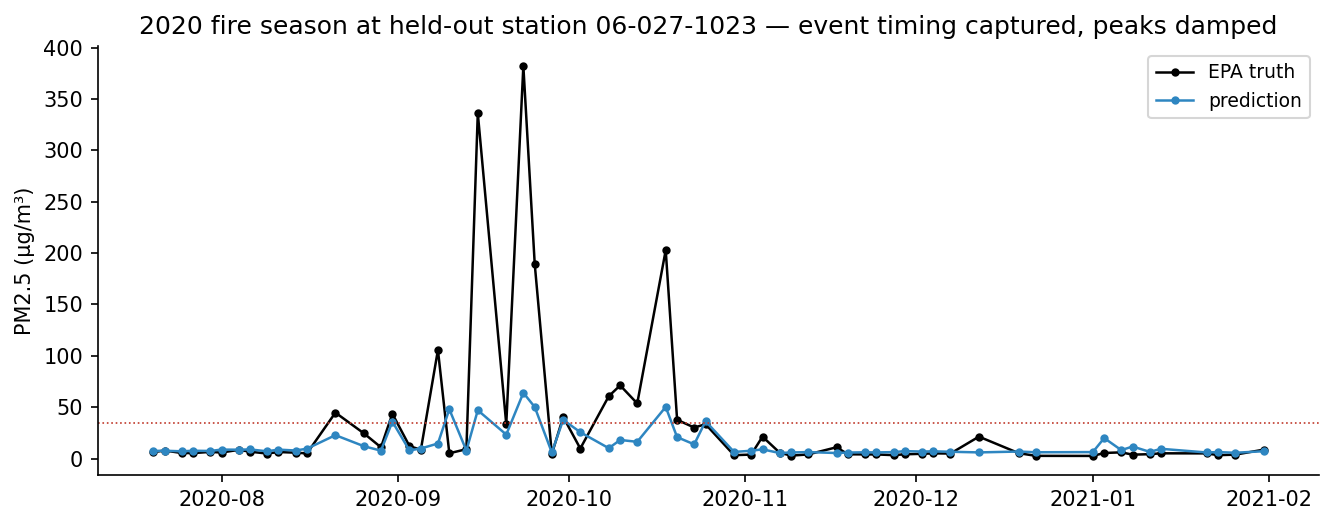
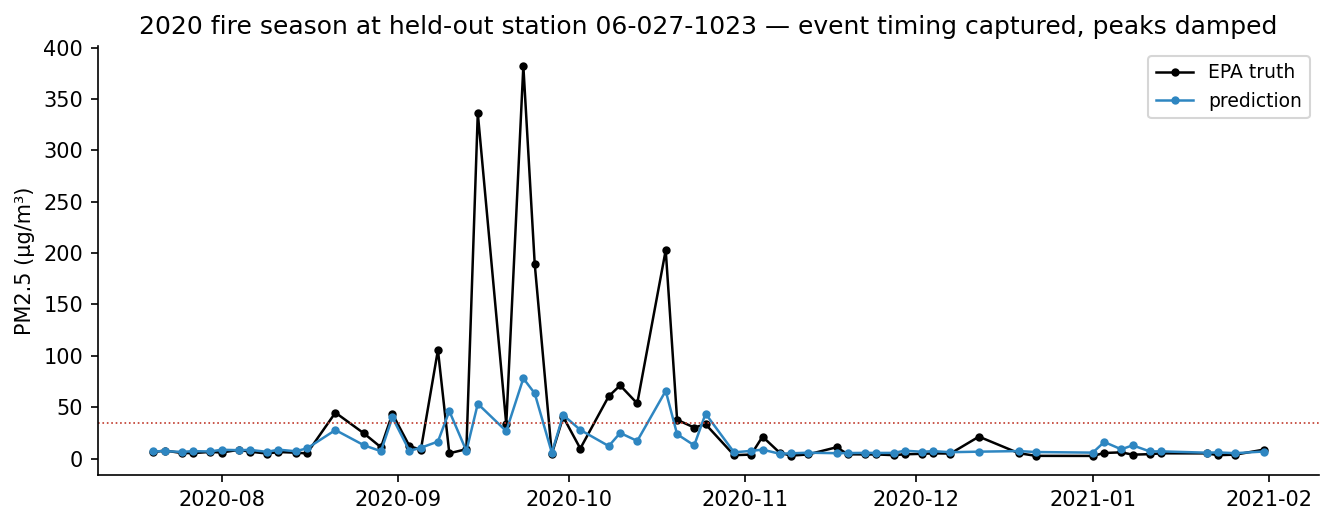
Figures refreshed to 5-member champion; fig24 campaign verdicts

diff --git a/scripts/11_figures.py b/scripts/11_figures.py
@@ -25,8 +25,11 @@ STATE_COLORS = [BLUE, GREEN, "#e67e22", "#8e44ad", RED]
 KEYS = ["station_id", "week_start"]
 STATE_OF = {"06": "CA", "48": "TX", "36": "NY", "53": "WA", "17": "IL"}
 ORDER = ["CA", "WA", "TX", "IL", "NY"]
-SPLIT_A = ["fused_film", "fused_film_nolatlon", "fused_film_geotime"]
-SPLIT_B = ["reval_film_full", "reval_film_nolatlon", "reval_film_geotime"]
+# certified 5-member honest blend (§3w): TTA'd trio + seed-2 + temporal-reference
+SPLIT_A = ["tta_film_s0", "tta_nolatlon_s0", "tta_geotime_s0",
+           "film_full_seed2", "film_reftemporal_s0"]
+SPLIT_B = ["tta_film_s1", "tta_nolatlon_s1", "tta_geotime_s1",
+           "film_full_seed2_B", "film_reftemporal_B"]
 BUCK = [(2.5, 6, "2.5–6"), (6, 12, "6–12"), (12, 35, "12–35"), (35, 55, "35–55"), (55, 1e9, "55+")]
 
 
@@ -40,6 +43,7 @@ def blend(runs):
     b = dfs[0][KEYS + ["y_true"]].copy()
     for i, d in enumerate(dfs):
         b[f"m{i}"] = b.set_index(KEYS).index.map(d.set_index(KEYS).y_pred)
+    b = b.dropna().reset_index(drop=True)
     b["y_pred"] = b[[f"m{i}" for i in range(len(dfs))]].mean(axis=1)
     return b
 
@@ -63,10 +67,11 @@ def fig1():  # story arc (§2 ladder + §3p/§3t)
               ("+ wildfire era,\nfine-tuned end-to-end\n(CA only)", 0.39),
               ("5 states,\nrare-event weighting\n(damped)", 0.31),
               ("Image-only\nensemble ×3\n(certified §3p)", 0.362),
-              ("Triple-FiLM\ncontext blend\n(certified §3t)", 0.437)]
+              ("Triple-FiLM\ncontext blend\n(certified §3t)", 0.437),
+              ("5-member blend\n+TTA +references\n(certified §3w)", 0.435)]
     fig, ax = plt.subplots(figsize=(9, 4.2))
     vals = [v for _, v in stages]
-    ax.bar(range(len(stages)), vals, color=[GRAY]*4 + [LTBLUE, BLUE], width=0.62)
+    ax.bar(range(len(stages)), vals, color=[GRAY]*4 + [LTBLUE, LTBLUE, BLUE], width=0.62)
     for x, v in enumerate(vals):
         ax.text(x, v + 0.008, f"{v:.2f}", ha="center", fontweight="bold")
     ax.set_xticks(range(len(stages)))
@@ -78,8 +83,8 @@ def fig1():  # story arc (§2 ladder + §3p/§3t)
 
 def fig2():
     fig, axes = plt.subplots(1, 2, figsize=(9, 4.4), sharex=True, sharey=True)
-    for ax, b, ttl, r2 in [(axes[0], blend(SPLIT_A), "Split A (seed 0)", 0.406),
-                           (axes[1], blend(SPLIT_B), "Split B (seed 1)", 0.437)]:
+    for ax, b, ttl, r2 in [(axes[0], blend(SPLIT_A), "Split A (seed 0)", 0.435),
+                           (axes[1], blend(SPLIT_B), "Split B (seed 1)", 0.435)]:
         ax.scatter(b.y_true, b.y_pred, s=4, alpha=0.18, color=BLUE, edgecolors="none")
         lim = [2, 300]
         ax.plot(lim, lim, "k--", lw=0.8)
@@ -88,7 +93,7 @@ def fig2():
         ax.set_title(f"{ttl} — R²={r2:.3f}, n={len(b):,}")
         ax.set_xlabel("EPA measured PM2.5 (µg/m³)")
     axes[0].set_ylabel("Predicted PM2.5 (µg/m³)")
-    fig.suptitle("Champion (triple-FiLM blend) at held-out stations", y=1.0)
+    fig.suptitle("Champion (5-member FiLM blend, §3w) at held-out stations", y=1.0)
     save(fig, "fig2_champion_scatter.png")
 
 
@@ -426,8 +431,8 @@ def fig19():  # §3k numbers
 
 def fig20():
     fig, axes = plt.subplots(1, 2, figsize=(9, 4.2), sharex=True, sharey=True)
-    for ax, runs, ttl, bt in [(axes[0], SPLIT_A, "Split A", 0.513),
-                              (axes[1], SPLIT_B, "Split B", 0.398)]:
+    for ax, runs, ttl, bt in [(axes[0], SPLIT_A, "Split A", 0.503),
+                              (axes[1], SPLIT_B, "Split B", 0.359)]:
         g = blend(runs).groupby("station_id")[["y_true", "y_pred"]].mean()
         ax.scatter(g.y_true, g.y_pred, s=32, color=BLUE, alpha=0.8)
         lim = [4, 20]
@@ -495,9 +500,31 @@ def fig23():
     save(fig, "fig23_member_diversity.png")
 
 
+def fig24():  # §3w campaign summary
+    items = [("TTA (8-view averaging)", 0.017, GREEN),
+             ("Temporal reference (deployable)", 0.029, GREEN),
+             ("Clean reference (needs labels)", 0.059, GREEN),
+             ("Chromatic band ratios", -0.006, GRAY),
+             ("ResNet-34 capacity", -0.002, GRAY),
+             ("Isotonic smoke calibration", -0.058, RED)]
+    fig, ax = plt.subplots(figsize=(8, 3.8))
+    v = [x for _, x, _ in items]
+    ax.barh(range(len(items)), v, color=[c for _, _, c in items], height=0.6)
+    ax.axvline(0, color="k", lw=0.8)
+    for i, x in enumerate(v):
+        ax.text(x + (0.002 if x >= 0 else -0.002), i, f"{x:+.3f}",
+                va="center", ha="left" if x >= 0 else "right", fontsize=8.5)
+    ax.set_yticks(range(len(items)))
+    ax.set_yticklabels([n for n, _, _ in items], fontsize=9)
+    ax.invert_yaxis()
+    ax.set_xlabel("single-model R² change vs plain FiLM (same split)")
+    ax.set_title("Improvement campaign verdicts (§3w) — what helped, what didn't")
+    save(fig, "fig24_campaign_verdicts.png")
+
+
 ALL = {f"fig{i}": fn for i, fn in enumerate(
     [fig1, fig2, fig3, fig4, fig5, fig6, fig7, fig8, fig9, fig10, fig11, fig12, fig13,
-     fig14, fig15, fig16, fig17, fig18, fig19, fig20, fig21, fig22, fig23], start=1)}
+     fig14, fig15, fig16, fig17, fig18, fig19, fig20, fig21, fig22, fig23, fig24], start=1)}
 
 if __name__ == "__main__":
     targets = sys.argv[1:] or list(ALL)
